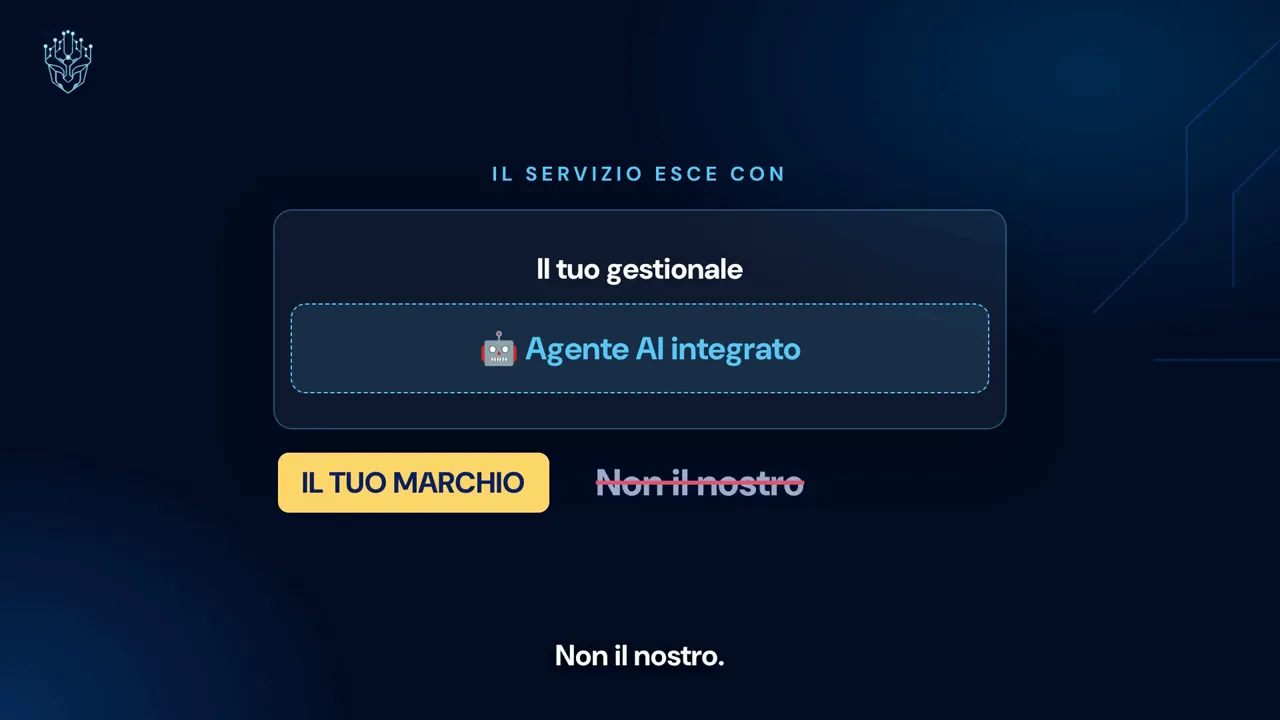
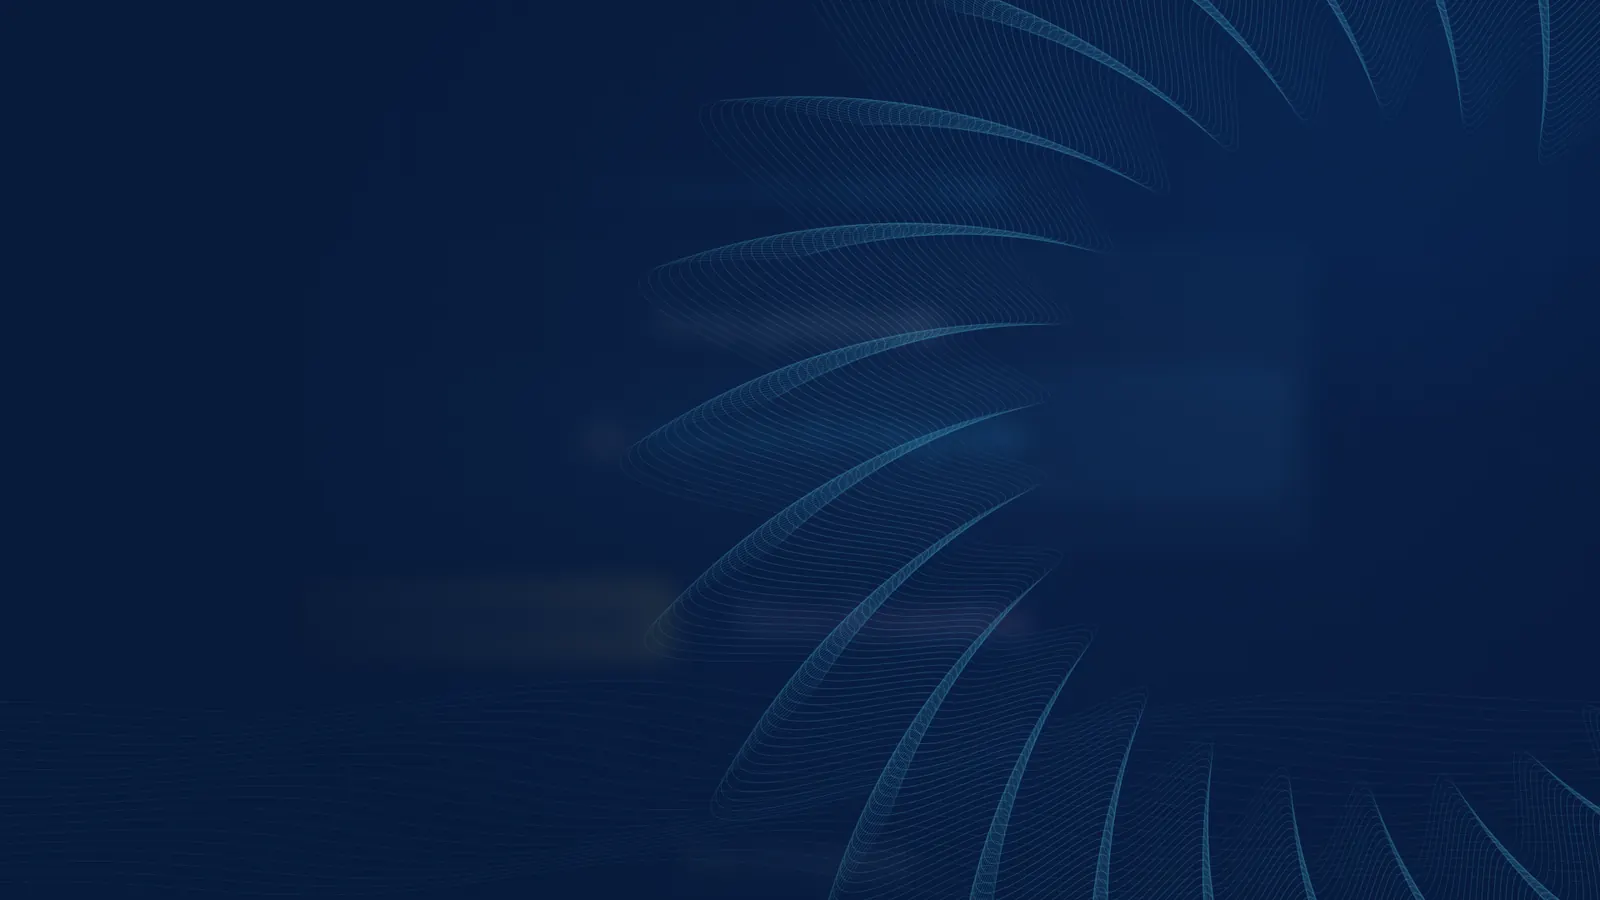
Video: copertine disegnate e un video per ogni pubblico
In home una sola presentazione (software house) in una sezione scura,
con copertina nel design del sito, titolo e pulsante: il video parte al
clic. La presentazione per franchising e reti sta nella sua sezione di
Soluzioni, con un rimando dalla home. Stesso trattamento in spagnolo.

Claude-Session: https://claude.ai/code/session_01S6Kg7aWs318cgRd1stjGZA

diff --git a/static/odyra.css b/static/odyra.css
@@ -156,14 +156,33 @@ h3 { font-size: 1.3rem; font-weight: 720; font-stretch: 104%; letter-spacing: -.
 .slot-wide .slot-box { aspect-ratio: 16 / 9; }
 .film { padding: clamp(4rem, 9vw, 7rem) 0; }
 .film .slot { margin-top: 2.5rem; }
-.films { margin-top: 2.5rem; display: grid; gap: 2rem 1.6rem; }
-@media (min-width: 52rem) { .films { grid-template-columns: 1fr 1fr; } }
-.film-item, .sol-film { margin: 0; }
-.film-item video, .sol-film video { display: block; width: 100%; height: auto; aspect-ratio: 16 / 9; border-radius: .7rem; background: var(--ink); box-shadow: 0 0 0 1px var(--ink-rule), 0 18px 40px -22px rgba(7, 26, 58, .7); }
-.film-item figcaption, .sol-film figcaption { display: grid; gap: .15rem; margin-top: .8rem; }
-.film-item b, .sol-film b { font-stretch: 110%; font-size: 1.1rem; color: var(--ink); }
-.film-item span, .sol-film span { color: var(--text-soft); font-size: .95rem; }
+/* Video: copertina disegnata, il video parte al clic */
+.film.ink { padding: clamp(4.5rem, 10vw, 8rem) 0; overflow: hidden; }
+.film-head { display: grid; gap: 1rem 4rem; align-items: end; margin-bottom: clamp(2rem, 4vw, 3.2rem); }
+@media (min-width: 60rem) { .film-head { grid-template-columns: 1.1fr 1fr; } .film-head .sec-lead { margin: 0; } }
+.film-head h2 { max-width: 14ch; }
+.film-aside { margin-top: 1.6rem; color: var(--on-ink-soft); }
+.film-aside a { color: var(--cyan-hi); text-underline-offset: .2em; }
+.reel { position: relative; margin: 0; border-radius: 1rem; overflow: hidden; background: var(--ink); isolation: isolate;
+  box-shadow: 0 0 0 1px var(--ink-rule), 0 40px 80px -40px rgba(0, 0, 0, .85); }
+.reel video { display: block; width: 100%; height: auto; aspect-ratio: 16 / 9; background: var(--ink); }
+.reel-play { display: none; }
+.js .reel-play { position: absolute; inset: 0; display: flex; flex-direction: column; justify-content: flex-end; align-items: flex-start; gap: clamp(.8rem, 2vw, 1.5rem);
+  padding: clamp(1.2rem, 4.5vw, 3.6rem); border: 0; background: none; color: #fff; text-align: left; font: inherit; cursor: pointer; transition: opacity .6s var(--ease), visibility .6s; }
+.reel-title { max-width: 17ch; font-weight: 800; font-stretch: 116%; font-size: clamp(1.35rem, 3.7vw, 3.3rem); line-height: 1.02; letter-spacing: -.03em; text-wrap: balance; }
+.reel-meta { display: inline-flex; align-items: center; gap: .9rem; font-weight: 600; font-size: clamp(.9rem, 1.4vw, 1.05rem); color: var(--on-ink-soft); }
+.reel-dur { font-family: var(--mono); font-weight: 500; color: var(--cyan-hi); }
+.reel-icon { flex: none; width: clamp(2.8rem, 5vw, 4rem); aspect-ratio: 1; border-radius: 50%; display: grid; place-items: center; background: var(--cyan); color: var(--ink);
+  box-shadow: 0 12px 26px -10px rgba(0, 0, 0, .6); transition: transform .5s var(--ease), background .3s; }
+.reel-icon svg { width: 42%; margin-left: 8%; }
+.reel-play:hover .reel-icon { transform: scale(1.08); background: var(--cyan-hi); }
+.reel-play:focus-visible { outline-offset: -6px; }
+.reel.playing .reel-play { opacity: 0; visibility: hidden; }
+.reel-what { margin-right: .2rem; }
+@media (max-width: 40rem) { .reel-what { display: none; } .js .reel-play { gap: .7rem; } }
 .sol-film { margin-top: 2.2rem; }
+.sol-film .reel-title { font-size: clamp(1.25rem, 2.3vw, 1.9rem); }
+.sol-film .reel-meta { font-size: .9rem; }
 
 /* Clienti */
 .clients { padding: clamp(4.5rem, 9vw, 7.5rem) 0; }

diff --git a/pagine/es/soluzioni.html b/pagine/es/soluzioni.html
@@ -18,7 +18,7 @@
     <div class="sol-head">
       <h2>Empresas de software</h2>
       <p class="sec-lead">Tu software de gestión o software vertical ofrece a tus clientes un agente de IA con tu nombre, que trabaja dentro de tu producto. Tú no desarrollas la IA: la llevas al mercado.</p>
-      <figure class="sol-film"><video controls preload="none" playsinline poster="/assets/video/odyra-software-house.webp" width="1920" height="1080"><source src="/assets/video/odyra-software-house.mp4" type="video/mp4"></video><figcaption><b>Mira la presentación</b><span>Tu software de gestión, con un agente IA que lleva tu nombre · 3:41 · en italiano</span></figcaption></figure>
+      <div class="sol-film"><figure class="reel"><video controls preload="none" playsinline poster="/assets/video/odyra-software-house.webp" width="1920" height="1080"><source src="/assets/video/odyra-software-house.mp4" type="video/mp4"></video><button class="reel-play" type="button" aria-label="Mira la presentación para software houses, en italiano, 3 minutos y 41 segundos" data-js-only><span class="reel-title">Tu software de gestión, con un agente IA que lleva tu nombre.</span><span class="reel-meta"><i class="reel-icon"><svg viewBox="0 0 24 24" aria-hidden="true"><path d="M8 5.5v13l11-6.5z" fill="currentColor"/></svg></i><span class="reel-what">Presentación para software houses · en italiano</span><span class="reel-dur">3:41</span></span></button><figcaption class="sr">Tu software de gestión, con un agente IA que lleva tu nombre. Presentación para software houses · en italiano · <span class="reel-dur">3:41</span></figcaption></figure></div>
     </div>
     <div class="sol-body">
       <h3>Qué obtienes</h3>
@@ -73,7 +73,7 @@
     <div class="sol-head">
       <h2>Franquicias y redes</h2>
       <p class="sec-lead">Muchos puntos de venta, una sola forma de responder. Un agente para cada local, con las mismas reglas de marca en toda la red.</p>
-      <figure class="sol-film"><video controls preload="none" playsinline poster="/assets/video/odyra-reti.webp" width="1920" height="1080"><source src="/assets/video/odyra-reti.mp4" type="video/mp4"></video><figcaption><b>Mira la presentación</b><span>Un solo agente IA para toda la red · 4:22 · en italiano</span></figcaption></figure>
+      <div class="sol-film"><figure class="reel"><video controls preload="none" playsinline poster="/assets/video/odyra-reti.webp" width="1920" height="1080"><source src="/assets/video/odyra-reti.mp4" type="video/mp4"></video><button class="reel-play" type="button" aria-label="Mira la presentación para franquicias y redes, en italiano, 4 minutos y 22 segundos" data-js-only><span class="reel-title">Un solo agente IA para toda la red.</span><span class="reel-meta"><i class="reel-icon"><svg viewBox="0 0 24 24" aria-hidden="true"><path d="M8 5.5v13l11-6.5z" fill="currentColor"/></svg></i><span class="reel-what">Presentación para franquicias y redes · en italiano</span><span class="reel-dur">4:22</span></span></button><figcaption class="sr">Un solo agente IA para toda la red. Presentación para franquicias y redes · en italiano · <span class="reel-dur">4:22</span></figcaption></figure></div>
     </div>
     <div class="sol-body">
       <h3>Qué obtienes</h3>

diff --git a/pagine/soluzioni.html b/pagine/soluzioni.html
@@ -18,7 +18,7 @@
     <div class="sol-head">
       <h2>Software house</h2>
       <p class="sec-lead">Il tuo gestionale o software verticale offre ai clienti un agente AI col tuo nome, che lavora dentro il tuo prodotto. Tu non sviluppi l’AI: la porti sul mercato.</p>
-      <figure class="sol-film"><video controls preload="none" playsinline poster="/assets/video/odyra-software-house.webp" width="1920" height="1080"><source src="/assets/video/odyra-software-house.mp4" type="video/mp4"></video><figcaption><b>Guarda la presentazione</b><span>Il tuo gestionale, con un agente AI che porta il tuo nome · 3:41</span></figcaption></figure>
+      <div class="sol-film"><figure class="reel"><video controls preload="none" playsinline poster="/assets/video/odyra-software-house.webp" width="1920" height="1080"><source src="/assets/video/odyra-software-house.mp4" type="video/mp4"></video><button class="reel-play" type="button" aria-label="Guarda la presentazione per le software house, 3 minuti e 41 secondi" data-js-only><span class="reel-title">Il tuo gestionale, con un agente AI che porta il tuo nome.</span><span class="reel-meta"><i class="reel-icon"><svg viewBox="0 0 24 24" aria-hidden="true"><path d="M8 5.5v13l11-6.5z" fill="currentColor"/></svg></i><span class="reel-what">Presentazione per le software house</span><span class="reel-dur">3:41</span></span></button><figcaption class="sr">Il tuo gestionale, con un agente AI che porta il tuo nome. Presentazione per le software house · <span class="reel-dur">3:41</span></figcaption></figure></div>
     </div>
     <div class="sol-body">
       <h3>Cosa ottieni</h3>
@@ -73,7 +73,7 @@
     <div class="sol-head">
       <h2>Franchising e reti</h2>
       <p class="sec-lead">Tanti punti vendita, un solo modo di rispondere. Un agente per ogni sede, con le regole del marchio uguali per tutta la rete.</p>
-      <figure class="sol-film"><video controls preload="none" playsinline poster="/assets/video/odyra-reti.webp" width="1920" height="1080"><source src="/assets/video/odyra-reti.mp4" type="video/mp4"></video><figcaption><b>Guarda la presentazione</b><span>Un solo agente AI per tutta la rete · 4:22</span></figcaption></figure>
+      <div class="sol-film"><figure class="reel"><video controls preload="none" playsinline poster="/assets/video/odyra-reti.webp" width="1920" height="1080"><source src="/assets/video/odyra-reti.mp4" type="video/mp4"></video><button class="reel-play" type="button" aria-label="Guarda la presentazione per franchising e reti, 4 minuti e 22 secondi" data-js-only><span class="reel-title">Un solo agente AI per tutta la rete.</span><span class="reel-meta"><i class="reel-icon"><svg viewBox="0 0 24 24" aria-hidden="true"><path d="M8 5.5v13l11-6.5z" fill="currentColor"/></svg></i><span class="reel-what">Presentazione per franchising e reti</span><span class="reel-dur">4:22</span></span></button><figcaption class="sr">Un solo agente AI per tutta la rete. Presentazione per franchising e reti · <span class="reel-dur">4:22</span></figcaption></figure></div>
     </div>
     <div class="sol-body">
       <h3>Cosa ottieni</h3>

diff --git a/pagine/es/home.html b/pagine/es/home.html
@@ -185,14 +185,14 @@
 </section>
 
 <!-- Vídeo -->
-<section class="film paper" id="video">
+<section class="film ink" id="video">
   <div class="wrap">
-    <h2>Mira cómo funciona.</h2>
-    <p class="sec-lead">Dos presentaciones breves, en italiano con subtítulos en italiano: una para quien tiene un software de gestión y otra para quien dirige una red de sedes.</p>
-    <div class="films">
-      <figure class="film-item"><video controls preload="none" playsinline poster="/assets/video/odyra-software-house.webp" width="1920" height="1080"><source src="/assets/video/odyra-software-house.mp4" type="video/mp4"></video><figcaption><b>Para software houses</b><span>Tu software de gestión, con un agente IA que lleva tu nombre · 3:41 · en italiano</span></figcaption></figure>
-      <figure class="film-item"><video controls preload="none" playsinline poster="/assets/video/odyra-reti.webp" width="1920" height="1080"><source src="/assets/video/odyra-reti.mp4" type="video/mp4"></video><figcaption><b>Para franquicias y redes</b><span>Un solo agente IA para toda la red · 4:22 · en italiano</span></figcaption></figure>
+    <div class="film-head">
+      <h2 class="display-2">Tres minutos para entender el modelo.</h2>
+      <p class="sec-lead">La presentación para software houses, en italiano: cómo tu software de gestión ofrece a sus clientes un agente IA con tu nombre, quién hace qué y cómo ganamos juntos.</p>
     </div>
+    <figure class="reel"><video controls preload="none" playsinline poster="/assets/video/odyra-software-house.webp" width="1920" height="1080"><source src="/assets/video/odyra-software-house.mp4" type="video/mp4"></video><button class="reel-play" type="button" aria-label="Mira la presentación para software houses, en italiano, 3 minutos y 41 segundos" data-js-only><span class="reel-title">Tu software de gestión, con un agente IA que lleva tu nombre.</span><span class="reel-meta"><i class="reel-icon"><svg viewBox="0 0 24 24" aria-hidden="true"><path d="M8 5.5v13l11-6.5z" fill="currentColor"/></svg></i><span class="reel-what">Presentación para software houses · en italiano</span><span class="reel-dur">3:41</span></span></button><figcaption class="sr">Tu software de gestión, con un agente IA que lleva tu nombre. Presentación para software houses · en italiano · <span class="reel-dur">3:41</span></figcaption></figure>
+    <p class="film-aside">¿Diriges una red de sedes o una franquicia? <a href="{{P}}soluciones/#franchising">Hay una presentación pensada para las redes</a>.</p>
   </div>
 </section>
 

diff --git a/pagine/home.html b/pagine/home.html
@@ -185,14 +185,14 @@
 </section>
 
 <!-- Video -->
-<section class="film paper" id="video">
+<section class="film ink" id="video">
   <div class="wrap">
-    <h2>Guarda come funziona.</h2>
-    <p class="sec-lead">Due presentazioni brevi: una per chi ha un gestionale, una per chi guida una rete di sedi. Scegli quella che ti somiglia.</p>
-    <div class="films">
-      <figure class="film-item"><video controls preload="none" playsinline poster="/assets/video/odyra-software-house.webp" width="1920" height="1080"><source src="/assets/video/odyra-software-house.mp4" type="video/mp4"></video><figcaption><b>Per le software house</b><span>Il tuo gestionale, con un agente AI che porta il tuo nome · 3:41</span></figcaption></figure>
-      <figure class="film-item"><video controls preload="none" playsinline poster="/assets/video/odyra-reti.webp" width="1920" height="1080"><source src="/assets/video/odyra-reti.mp4" type="video/mp4"></video><figcaption><b>Per franchising e reti</b><span>Un solo agente AI per tutta la rete · 4:22</span></figcaption></figure>
+    <div class="film-head">
+      <h2 class="display-2">Tre minuti per capire il modello.</h2>
+      <p class="sec-lead">La presentazione per le software house: come il tuo gestionale offre ai clienti un agente AI col tuo nome, chi fa cosa e come si guadagna insieme.</p>
     </div>
+    <figure class="reel"><video controls preload="none" playsinline poster="/assets/video/odyra-software-house.webp" width="1920" height="1080"><source src="/assets/video/odyra-software-house.mp4" type="video/mp4"></video><button class="reel-play" type="button" aria-label="Guarda la presentazione per le software house, 3 minuti e 41 secondi" data-js-only><span class="reel-title">Il tuo gestionale, con un agente AI che porta il tuo nome.</span><span class="reel-meta"><i class="reel-icon"><svg viewBox="0 0 24 24" aria-hidden="true"><path d="M8 5.5v13l11-6.5z" fill="currentColor"/></svg></i><span class="reel-what">Presentazione per le software house</span><span class="reel-dur">3:41</span></span></button><figcaption class="sr">Il tuo gestionale, con un agente AI che porta il tuo nome. Presentazione per le software house · <span class="reel-dur">3:41</span></figcaption></figure>
+    <p class="film-aside">Guidi una rete di sedi o un franchising? <a href="{{P}}soluzioni/#franchising">C’è una presentazione pensata per le reti</a>.</p>
   </div>
 </section>
 

diff --git a/static/odyra.js b/static/odyra.js
@@ -389,3 +389,16 @@ audButtons.forEach((btn) => btn.addEventListener('click', () => {
     li.classList.toggle('hit', match && aud !== 'tutti')
   })
 }))
+
+// Video: la copertina disegnata copre il player; al clic parte il video con i comandi.
+$$('.reel').forEach((reel) => {
+  const video = $('video', reel), play = $('.reel-play', reel)
+  if (!video || !play) return
+  video.controls = false
+  play.addEventListener('click', () => {
+    reel.classList.add('playing')
+    video.controls = true
+    video.play().catch(() => {})
+    video.focus()
+  })
+})
